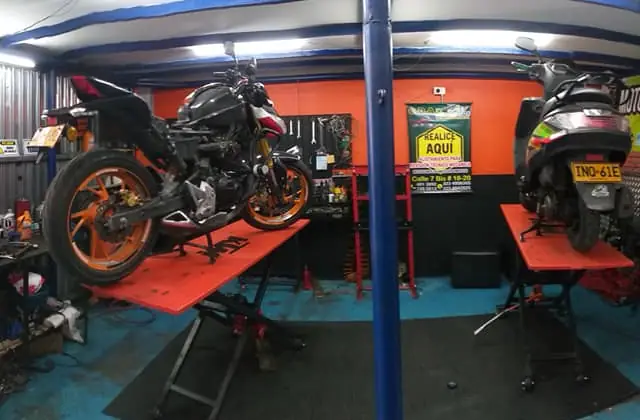
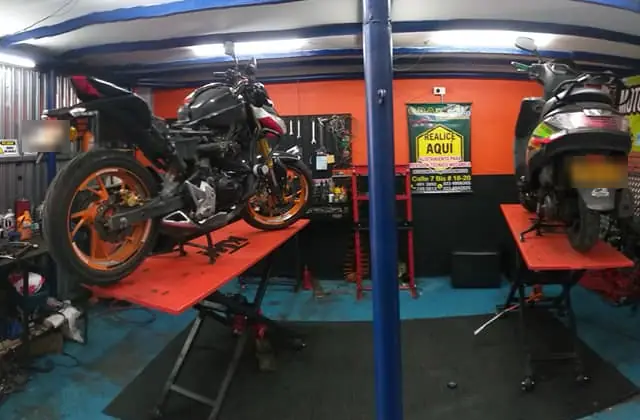
Refactor code structure for improved readability and maintainability

Changed region(s): [[0.875, 0.3714, 1.0, 0.4643], [0.0312, 0.2786, 0.125, 0.3714]]

diff --git a/routes/services.js b/routes/services.js
@@ -34,76 +34,96 @@ function calcParking(order, config) {
 const router = express.Router();
 const SERVICES = ['Mecánica', 'Pintura', 'Alistamiento tecnomecánica', 'Electricidad', 'Torno', 'Prensa', 'Mecánica rápida', 'Escaneo de motos', 'Lavado de motos', 'Detailing de motos', 'Lavado de cascos'];
 
+// `includes` resume en etiquetas lo que ya dicen `details` (o, para lavado,
+// cascos y detailing, sus páginas en views/services/): /servicios las muestra
+// como cintas de rotuladora. `realPhoto` solo existe donde hay foto propia del
+// taller; el resto de /servicios usa la herramienta ilustrada, no fotos de banco.
 const servicesData = [
   {
-    slug: 'mecanica',
+    slug: 'mecanica', realPhoto: { src: '/images/servicios/mecanica-elevadores.webp', alt: 'Dos motos sobre los elevadores del taller' }, includes: ['Frenos', 'Transmisión', 'Refrigeración', 'Motor'],
     title: 'Mecánica Especializada y Mantenimiento',
     desc: 'Diagnóstico, mantenimiento preventivo y correctivo. Trabajamos con control de calidad para que tu moto rinda al máximo.',
     img: '/images/services/mecanica.webp',
     details: 'Nuestro servicio de <strong>mecánica para motos</strong> incluye una revisión completa de sistemas de frenos, transmisión, refrigeración y motor. Contamos con herramientas especializadas y protocolos de calidad que garantizan que tu moto salga lista para la ruta o la ciudad de forma segura.'
   },
   {
-    slug: 'pintura',
+    slug: 'pintura', includes: ['Rayones', 'Abolladuras', 'Color original', 'Pintura personalizada', 'Barniz protector'],
     title: 'Pintura y Restauración Estética',
     desc: 'Acabados profesionales, retoques y protección. Cuidamos el detalle y la durabilidad.',
     img: '/images/services/pintura.webp',
     details: 'Reparamos rayones, abolladuras y restauramos el color original o aplicamos pintura personalizada según tus requerimientos. Usamos pinturas de alta resistencia y acabados con barniz protector de la mayor durabilidad.'
   },
   {
-    slug: 'alistamiento-tecnomecanica',
+    slug: 'alistamiento-tecnomecanica', includes: ['Gases', 'Frenos', 'Luces', 'Llantas', 'Nivel sonoro'],
     title: 'Alistamiento Tecnomecánica',
     desc: 'Revisión integral y ajustes previos a la inspección para evitar sorpresas y rechazos.',
     img: '/images/services/alisamiento.webp',
     details: 'Realizamos inspección de gases, frenos, luces, desgaste de llantas y nivel sonoro. Garantizamos que tu moto apruebe la revisión técnico mecánica reglamentaria al primer intento.'
   },
   {
-    slug: 'electricidad',
+    slug: 'electricidad', realPhoto: { src: '/images/servicios/electricidad-cargador.webp', alt: 'Cargador de batería conectado a una moto en el taller' }, includes: ['Cortos circuitos', 'Exploradoras', 'Batería', 'Estatores'],
     title: 'Servicio de Electricidad',
     desc: 'Sistema de carga, arranque e iluminación. Diagnóstico electrónico confiable.',
     img: '/images/services/electricidad.webp',
     details: 'Arreglamos cortos circuitos, adaptaciones de exploradoras, problemas en la batería y estatores. Tu seguridad nocturna y el encendido de la moto están garantizados.'
   },
   {
-    slug: 'torno',
+    slug: 'torno', includes: ['Bujes', 'Ejes', 'Roscas', 'Soldadura'],
     title: 'Torno y Fresado',
     desc: 'Fabricación y ajuste de componentes a medida según especificación.',
     img: '/images/services/torno.webp',
     details: 'Diseñamos y reparamos bujes, ejes, roscas dañadas y realizamos soldaduras especializadas. Si una pieza ya no se consigue, nosotros la fabricamos.' //
   },
   {
-    slug: 'prensa',
+    slug: 'prensa', includes: ['Rodamientos', 'Cunas de dirección', 'Pasadores'],
     title: 'Servicio de Prensa',
     desc: 'Montaje y desmontaje seguro de rodamientos y piezas a presión.',
     img: '/images/services/prensa.webp',
     details: 'Extraemos rodamientos, cunas de dirección y pasadores empleando prensas hidráulicas, con lo que evitamos golpear y deformar tu moto.'
   },
   {
-    slug: 'mecanica-rapida',
+    slug: 'mecanica-rapida', includes: ['Cambio de aceite', 'Pastillas de freno', 'Tensado de cadena', 'Lubricación'],
     title: 'Mecánica Rápida (Express)',
     desc: 'Servicios ágiles como cambios de aceite y ajustes menores con cita.',
     img: '/images/services/mecanica-rapida.webp',
     details: 'Cambio de aceite, pastillas de freno, tensado y lubricación de cadena en tiempo récord para que sigas rodando sin perder tu día.'
   },
   {
-    slug: 'escaneo-de-motos',
+    slug: 'escaneo-de-motos', includes: ['Testigos del motor', 'Inyectores', 'Sensor TPS', 'Módulo ABS'],
     title: 'Escaneo de Motos (Inyección)',
     desc: 'Diagnóstico computarizado para detectar fallas electrónicas con precisión.',
     img: '/images/services/scaneo.webp',
     details: 'Contamos con escáneres multimarca para apagar testigos de motor, chequear valores en tiempo real de inyectores, sensores TPS y módulos ABS.'
   },
   // Servicios que usan sus propias vistas personalizadas
-  { slug: 'lavado-motos', title: 'Lavado de motos', desc: 'Limpieza profunda con productos especializados para cuidar la pintura y componentes de tu máquina.', img: '/images/services/lavado-motos.png' },
-  { slug: 'lavado-cascos', title: 'Lavado de cascos', desc: 'Desinfección y limpieza interna y externa para mantener tu seguridad y confort al rodar.', img: '/images/services/lavado-cascos.webp' },
-  { slug: 'detailing-motos', title: 'Detailing de motos', desc: 'Restauración estética detallada, polichado y protección cerámica para un brillo único.', img: '/images/services/detailing-motos.webp' }
+  { slug: 'lavado-motos', includes: ['Cuida la pintura', 'Plásticos', 'Componentes electrónicos'], title: 'Lavado de motos', desc: 'Limpieza profunda con productos especializados para cuidar la pintura y componentes de tu máquina.', img: '/images/services/lavado-motos.png' },
+  { slug: 'lavado-cascos', includes: ['Ozono', 'Hipoalergénico', 'Tapizado', 'Sin malos olores'], title: 'Lavado de cascos', desc: 'Desinfección y limpieza interna y externa para mantener tu seguridad y confort al rodar.', img: '/images/services/lavado-cascos.webp' },
+  { slug: 'detailing-motos', includes: ['Corrección de barniz', 'Pulido de metales', 'Sellador cerámico', 'Plásticos negros'], title: 'Detailing de motos', desc: 'Restauración estética detallada, polichado y protección cerámica para un brillo único.', img: '/images/services/detailing-motos.webp' }
 ];
 
+// /servicios: el tablero de herramientas. Mismo orden que la home (el recorrido
+// de la moto por sistemas) y el nombre corto de cada servicio, que es el valor
+// que entiende el selector de /servicios/agendar.
+const landingServices = require('../data/landing-services');
 router.get('/servicios', (req, res) => {
-  res.render('services', { services: servicesData });
+  const bySlug = Object.fromEntries(servicesData.map(s => [s.slug, s]));
+  const services = landingServices
+    .filter(l => bySlug[l.slug])
+    .map(l => ({ ...bySlug[l.slug], name: l.name, detailHref: `/servicios/${l.slug}` }));
+  res.render('services', {
+    services,
+    title: 'Servicios | Gorillaz Motorbikes',
+    description: 'Mecánica, electricidad, escaneo, torno, prensa, pintura, lavado y detailing de motos en Bogotá. Mira qué incluye cada servicio y agenda en línea.',
+    canonicalPath: '/servicios',
+    bodyClass: 'page-servicios',
+  });
 });
 
 router.get('/servicios/agendar', async (req, res) => {
+  // ?servicio=<nombre> (desde /servicios o la home) preselecciona el servicio.
+  const preselect = SERVICES.includes(req.query.servicio) ? req.query.servicio : null;
   try {
-    res.render('services_schedule', { services: SERVICES, bookingMessage: null, demandMap: await computeDemandMap() });
+    res.render('services_schedule', { services: SERVICES, bookingMessage: null, demandMap: await computeDemandMap(), preselect });
   } catch (e) {
     console.error('GET /servicios/agendar error:', e.message);
     res.status(500).render('services_schedule', { services: SERVICES, bookingMessage: null, demandMap: {} });

diff --git a/data/landing-services.js b/data/landing-services.js
@@ -1,15 +1,18 @@
 'use strict';
-// Servicios que muestra la landing (views/home.ejs), en el orden en que la
-// moto ilustrada los recorre. Los textos son los que ya tenía la home; las
+// Servicios que muestran la landing (views/home.ejs) y /servicios, en el orden
+// en que la moto ilustrada los recorre. `name` es también el valor del selector
+// de /servicios/agendar (SERVICES en routes/services.js). Los textos son los que ya tenía la home; las
 // fotos son las mismas de /images/services, reducidas a WebP de 720 px en
 // /images/landing/servicios para no descargar originales de 3000 px.
 //
 // La parte de la moto que resalta cada servicio NO vive aquí: es dato del
-// componente (public/js/motion/lib/bike-systems.mjs). Un test comprueba que
+// componente (data/bike-systems.json). Un test comprueba que
 // cada slug de esta lista tiene su sistema en la moto.
 
 module.exports = [
-  { slug: 'mecanica', name: 'Mecánica', desc: 'Diagnóstico, mantenimiento preventivo y correctivo con control de calidad.' },
+  // Mecánica usa un recorte real del motor de la Z1000 del taller: la foto de
+  // /images/services/mecanica.webp es una vista previa de Unsplash+ con marca de agua.
+  { slug: 'mecanica', name: 'Mecánica', desc: 'Diagnóstico, mantenimiento preventivo y correctivo con control de calidad.', img: '/images/landing/servicios/mecanica-motor.webp' },
   { slug: 'mecanica-rapida', name: 'Mecánica rápida', desc: 'Cambios de aceite, filtros y ajustes ágiles con cita.' },
   { slug: 'electricidad', name: 'Electricidad', desc: 'Diagnóstico eléctrico, sistema de carga, arranque e iluminación.' },
   { slug: 'escaneo-de-motos', name: 'Escaneo de motos', desc: 'Diagnóstico computarizado para detectar fallas electrónicas con precisión.' },
@@ -20,4 +23,4 @@ module.exports = [
   { slug: 'lavado-motos', name: 'Lavado de motos', desc: 'Limpieza profunda para tu motocicleta, cuidando cada detalle para que luzca impecable y protegida.' },
   { slug: 'detailing-motos', name: 'Detailing de motos', desc: 'Restauración y protección estética paso a paso con productos premium para dejar tu moto como nueva.' },
   { slug: 'lavado-cascos', name: 'Lavado de cascos', desc: 'Desinfección y limpieza interior y exterior de tu casco, eliminando olores e impurezas acumuladas.' },
-].map((s) => ({ ...s, href: `/servicios/${s.slug}`, img: `/images/landing/servicios/${s.slug}.webp` }));
+].map((s) => ({ href: `/servicios/${s.slug}`, img: `/images/landing/servicios/${s.slug}.webp`, ...s }));
